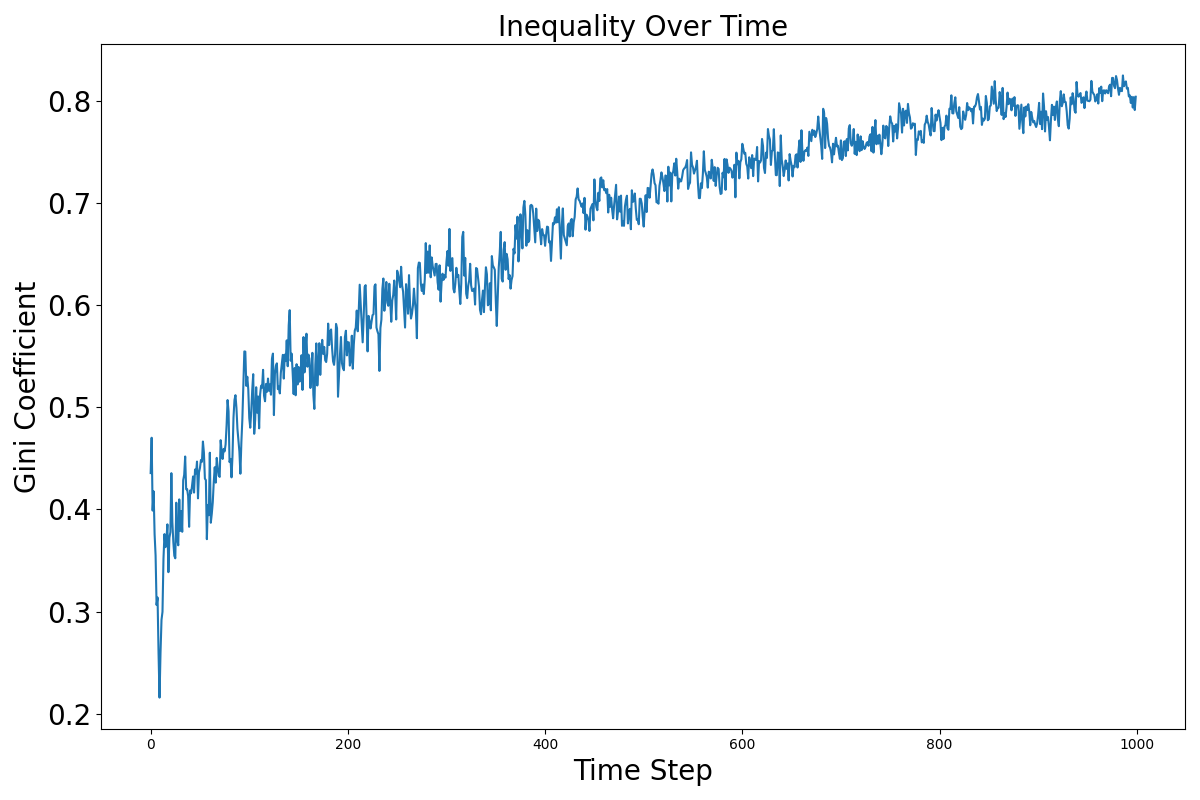
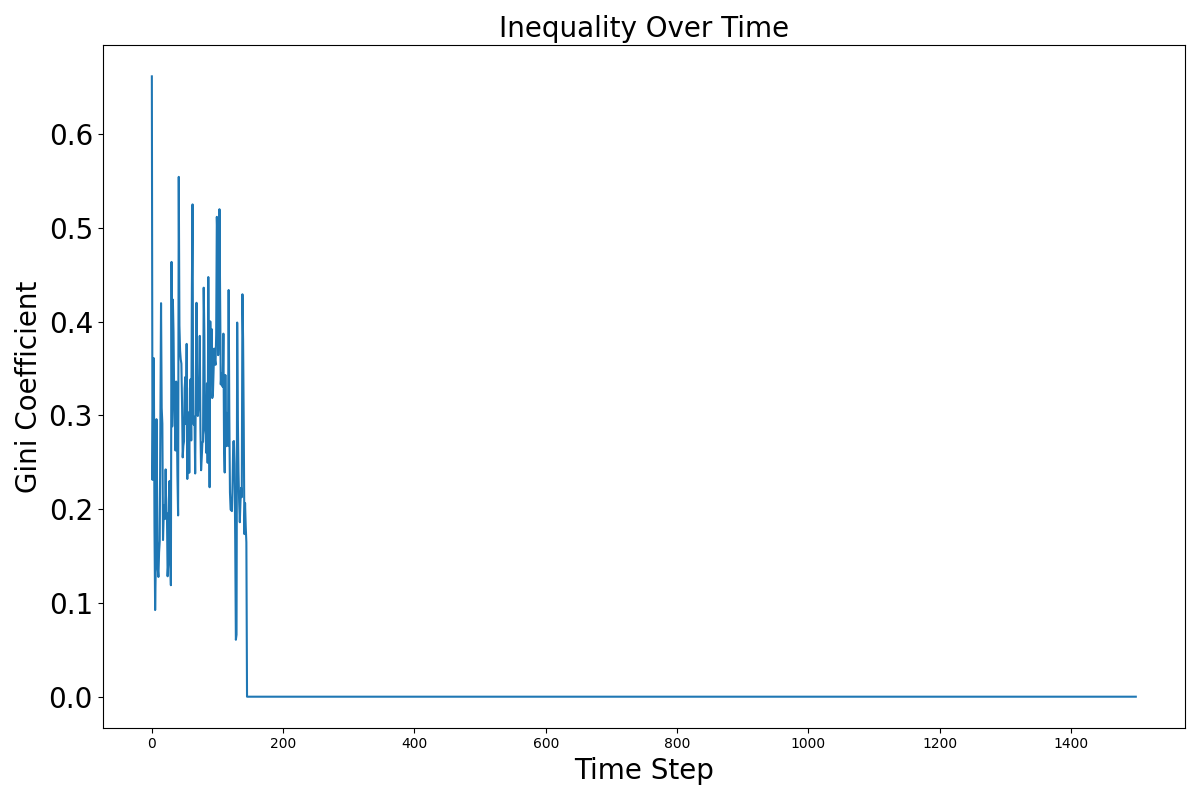
modified:   .DS_Store 	modified:   __pycache__/agent.cpython-312.pyc 	modified:   __pycache__/household.cpython-312.pyc 	modified:   __pycache__/main.cpython-312.pyc 	modified:   __pycache__/utils.cpython-312.pyc 	modified:   __pycache__/village.cpython-312.pyc 	modified:   agent.py 	modified:   hou

diff --git a/village.py b/village.py
@@ -163,12 +163,12 @@ class Village:
             
             if total_available_food > excess_food_ratio * food_needed and self.luxury_goods_in_village == 0: 
                 """ Too much food - Wants to trade for luxury goods"""
-                print(f"Qualify to get more luxury {household.id}")
+                # print(f"Qualify to get more luxury {household.id}")
                 food_for_luxury.append(household)
             if total_available_food < 50 * food_needed and household.luxury_good_storage > 0:
                 """ Not enough food - Wants to trade for food """
                 luxury_for_food.append(household)
-                print(f"Qualify to get more food {household.id}")
+                # print(f"Qualify to get more food {household.id}")
             # elif total_available_food < 1.5 * food_needed and household.luxury_good_storage == 0:
             #     charity.append(household)
             # this has been moved to run_simulation_step func
@@ -217,8 +217,8 @@ class Village:
             self.network_relation[food_household.id]['connectivity'][luxury_household.id] += 1
             self.network_relation[luxury_household.id]['connectivity'][food_household.id] += 1
 
-            print(f"Household {food_household.id} traded {food_to_trade} units of food "
-                  f"for {luxury_goods_to_trade} luxury goods with Household {luxury_household.id}.")
+            # print(f"Household {food_household.id} traded {food_to_trade} units of food "
+            #       f"for {luxury_goods_to_trade} luxury goods with Household {luxury_household.id}.")
 
     def get_household_by_id(self, household_id):
         """Retrieve a household by its ID."""
@@ -268,7 +268,7 @@ class Village:
         return abs(x1 - x2) + abs(y1 - y2)
 
     def is_land_available(self):
-        return any(not data['occupied'] for data in self.land_types.values())
+        return any(not data['occupied'] and not data['fallow'] for data in self.land_types.values())
 
     def reproduce_agent(self, household, parent_agent): # try not import
         """Create a new agent as the child of an existing agent."""
@@ -406,7 +406,7 @@ class Village:
             total_food += amount_get
             print(f"Household {household.id} gets {amount_get} from the Village.")
 
-    def run_simulation_step(self, vec1, prod_multiplier, fishing_discount, fallow_ratio, fallow_period, food_expiration_steps, marriage_from, marriage_to, bride_price_ratio, exchange_rate, storage_ratio_low, storage_ratio_high, land_capacity_low, max_member, excess_food_ratio, trade_back_start, lux_per_year, spare_food_enabled=False, fallow_farming = False):
+    def run_simulation_step(self, vec1, prod_multiplier, fishing_discount, fallow_ratio, fallow_period, food_expiration_steps, marriage_from, marriage_to, bride_price_ratio, exchange_rate, storage_ratio_low, storage_ratio_high, land_capacity_low, max_member, excess_food_ratio, trade_back_start, lux_per_year, land_depreciate_factor, fertility_scaler, spare_food_enabled=False, fallow_farming = False):
         
         """Run a single simulation step (year)."""
         
@@ -433,7 +433,7 @@ class Village:
                 # agent_food_needed= agent.vec1.rho[agent.get_age_group_index()]
                 agent_food_needed = agent.vec1.rho[agent.get_age_group_index()]
                 z = total_food * agent_food_needed / total_food_needed
-                agent.age_and_die(household, self, z)
+                agent.age_and_die(household, self, z, max_member, fertility_scaler)
                 
                 if not agent.is_alive:
                     dead_agents.append(agent)
@@ -459,7 +459,7 @@ class Village:
         if longevities:
             self.average_life_span.append(sum(longevities)/len(longevities))
         else:
-            print('average_life_span', self.average_life_span)
+            # print('average_life_span', self.average_life_span)
             self.average_life_span.append(self.average_life_span[-1])
 
         for household in self.households:
@@ -474,13 +474,17 @@ class Village:
             self.propose_marriage(household, marriage_from, marriage_to, bride_price_ratio) # if choose to comment out this line, please also comment out 
 
             if len(household.members) > max_member:
+                print('Too many ppl', len(household.members))
                 household.split_household(self, food_expiration_steps)
+                print('Splitted???', len(household.members))
+            else: 
+                print("household.members", len(household.members))
             self.remove_empty_household(household)
             household.advance_step()
             
         self.update_tracking_variables(exchange_rate)
         self.track_land_usage()
-        self.update_land_capacity()        
+        self.update_land_capacity(land_depreciate_factor)        
         self.manage_luxury_goods(exchange_rate, excess_food_ratio)
         self.trading(excess_food_ratio, trade_back_start)
         if fallow_farming:
@@ -490,7 +494,7 @@ class Village:
         self.luxury_goods_in_village += lux_per_year
         
     
-    def update_land_capacity(self):
+    def update_land_capacity(self, land_depreciate_factor):
         """Update the land quality for each land cell in the village."""
         for location, land in self.land_types.items():
             land_quality = land['quality']
@@ -517,7 +521,7 @@ class Village:
             new_quality = (
                         land_quality +
                         land_recovery_rate * (land_max_capacity - land_quality) 
-                        - farming_intensity * land_quality * 0.01 # this 0.01 is an important factor that influence everything, can be changed
+                        - farming_intensity ** 2 * land_quality * land_depreciate_factor # 0.01 # this 0.01 is an important factor that influence everything, can be changed
                     )
             land['quality'] = max(0, min(new_quality, land_max_capacity))
             # print(f"Land at {location} updated to quality {land['quality']:.2f}.")
@@ -536,6 +540,7 @@ class Village:
                 if household.location == loc:
                     land_snapshot[loc]['household_id'] = household.id
                     land_snapshot[loc]['num_members'] = len(household.members)
+                # print("len(household.members)", len(household.members))
         self.land_usage_over_time.append(land_snapshot)
         self.population.append(sum(len(household.members) for household in self.households))
         self.num_house.append(len(self.households))
@@ -672,7 +677,7 @@ class Village:
         plt.figure(figsize=(18, 12))
 
         # Plot 1: Population over time
-        plt.subplot(2, 3, 1)
+        plt.subplot(2, 4, 1)
         plt.plot(self.population_over_time, label='Population')
         plt.xlabel('Time Step', size = 20)
         plt.ylabel('Population', size = 20)
@@ -682,7 +687,7 @@ class Village:
         plt.title('Population Over Time',size = 20)
 
         # Plot 2: Land Capacity over time
-        plt.subplot(2, 3, 2)
+        plt.subplot(2, 4, 2)
         plt.plot(self.land_capacity_over_time, label='Occupied Land Capacity')
         plt.plot(self.land_capacity_over_time_all, label='All Land Capacity', linestyle='--')
         plt.xlabel('Time Step', size = 20)
@@ -693,7 +698,7 @@ class Village:
         plt.title('Land Capacity Over Time', size = 20)
 
         # Plot 3: Food Storage over time
-        plt.subplot(2, 3, 3)
+        plt.subplot(2, 4, 3)
         plt.plot(self.food_storage_over_time, label='Food Storage')
         plt.xlabel('Time Step', size = 20)
         plt.ylabel('Food Storage', size = 20)
@@ -703,7 +708,7 @@ class Village:
         plt.title('Food Storage Over Time', size = 20)
 
         # Plot 4: Average Fertility over time
-        plt.subplot(2, 3, 4)
+        plt.subplot(2, 4, 4)
         plt.plot(self.average_fertility_over_time, label='Avg. Fertility')
         plt.xlabel('Time Step', size = 20)
         plt.ylabel('Average Household Fertility', size = 20)
@@ -713,7 +718,7 @@ class Village:
         plt.title('Average Fertility Over Time', size = 20)
 
         # Plot 5: Average Age over time
-        plt.subplot(2, 3, 5)
+        plt.subplot(2, 4, 5)
         plt.plot(self.average_age, label='Avg. Age')
         plt.xlabel('Time Step',size = 20)
         plt.ylabel('Average Age', size = 20)
@@ -723,7 +728,7 @@ class Village:
         plt.title('Average Age Over Time', size = 20)
 
         # Plot 6: Average Life Span over time
-        plt.subplot(2, 3, 6)
+        plt.subplot(2, 4, 6)
         plt.plot(self.average_life_span, label='Avg. Life Span')
         plt.xlabel('Time Step', size = 20)
         plt.ylabel('Average Life Span', size = 20)
@@ -731,6 +736,15 @@ class Village:
         plt.yticks(size = 20)
         plt.legend(fontsize = 15)
         plt.title('Average Life Span Over Time', size = 20)
+
+        plt.subplot(2, 4, 7)
+        plt.plot(np.cumsum(self.population_over_time), label='Accumulated Population', color='orange')
+        plt.xlabel('Time Step', size=20)
+        plt.ylabel('Accumulated Population', size=20)
+        plt.yticks(size=20)
+        plt.legend()
+        plt.title('Accumulated Population', size=20)
+
 
         plt.tight_layout()
         plt.savefig(file_name)
@@ -760,7 +774,7 @@ class Village:
         # print('\nAgent network:')
         # print(agent_network)
         for agent in eligible_agents:
-            print('Eligible agent {}, household: ({}, {})'.format(agent.id, agent.household_id, household.id))
+            # print('Eligible agent {}, household: ({}, {})'.format(agent.id, agent.household_id, household.id))
 
             potential_spouses = self.find_potential_spouses(agent, marriage_from, marriage_to)
             

diff --git a/main.py b/main.py
@@ -12,10 +12,10 @@ random.seed(10)
 # if len(args) > 1:
 #     random.seed(int(args[1]))
 
-num_house = 56 # number of initial houses
+num_house = 5 # number of initial houses
 land_cells = 56 # initial amount of land cells
-year = 1000 # simulation years
-prod_multiplier = 1
+year = 1500 # simulation years
+prod_multiplier = 3
 fishing_discount = 1
 fallow_ratio = 50 # % of the total land
 fallow_period = 5 # years
@@ -23,7 +23,7 @@ food_expiration_steps = 2 # initial 3, by changing it from 3 to 2, everything ch
 marriage_from = 10
 marriage_to = 50
 bride_price_ratio=  0.5 # by changing it up, I haven't observed any changes yet
-land_ecovery_rate = 0.01 # initial 0.03
+land_ecovery_rate = 0.03 # initial 0.03
 land_max_capacity = 20 # initial 10
 initial_quality = 5 # initial 5
 fish_chance = 0.3 # initial 0.3
@@ -36,14 +36,16 @@ max_member = 5
 excess_food_ratio = 2 # initial 2
 trade_back_start = 50
 lux_per_year = 3 # initial 5 lowering it lower the gini coefficient
+land_depreciate_factor = 0.01 # very important, when it was 0.01, the population died after 1000 years
+fertility_scaler = 4 # very important, society cannot live up to 1000 yr if it is below 4 or 3. however, then the accumulative population is too much
 
 vec1_instance = Vec1()
 village = utils.generate_random_village(num_house, land_cells, vec1_instance, food_expiration_steps, land_ecovery_rate, land_max_capacity, initial_quality, fish_chance, fallow_period)
 village.initialize_network()
 village.initialize_network_relationship()
 for _ in range(year): 
-    village.run_simulation_step(vec1_instance, prod_multiplier = prod_multiplier, fishing_discount = fishing_discount, fallow_ratio = fallow_ratio, fallow_period = fallow_period, food_expiration_steps = food_expiration_steps, marriage_from = marriage_from, marriage_to = marriage_to, bride_price_ratio = bride_price_ratio, exchange_rate = exchange_rate, storage_ratio_low=storage_ratio_low, storage_ratio_high=storage_ratio_high, land_capacity_low = land_capacity_low, max_member=max_member, excess_food_ratio = excess_food_ratio, trade_back_start = trade_back_start, lux_per_year = lux_per_year, spare_food_enabled=False, fallow_farming = True)
-    utils.print_village_summary(village)
+    village.run_simulation_step(vec1_instance, prod_multiplier = prod_multiplier, fishing_discount = fishing_discount, fallow_ratio = fallow_ratio, fallow_period = fallow_period, food_expiration_steps = food_expiration_steps, marriage_from = marriage_from, marriage_to = marriage_to, bride_price_ratio = bride_price_ratio, exchange_rate = exchange_rate, storage_ratio_low=storage_ratio_low, storage_ratio_high=storage_ratio_high, land_capacity_low = land_capacity_low, max_member=max_member, excess_food_ratio = excess_food_ratio, trade_back_start = trade_back_start, lux_per_year = lux_per_year, land_depreciate_factor = land_depreciate_factor, fertility_scaler = fertility_scaler, spare_food_enabled=False, fallow_farming = True)
+    # utils.print_village_summary(village)
     
 village.plot_simulation_results(file_name = f"simulation_{year}")
-# village.generate_animation(grid_dim=math.ceil(math.sqrt(land_cells)))
+village.generate_animation(grid_dim=math.ceil(math.sqrt(land_cells)))

diff --git a/agent.py b/agent.py
@@ -82,7 +82,7 @@ class Agent:
             return work_output
         return work_output
     
-    def age_and_die(self, household, village, z):
+    def age_and_die(self, household, village, z, max_member, fertility_scaler):
 
         """Simulate aging, survival, and reproduction based on probabilities."""
         if not self.is_alive:
@@ -93,7 +93,7 @@ class Agent:
         age_index = self.get_age_group_index()
         
         survival_probability = self.vec1.pstar[age_index] * sp.gdtr(1.0 / self.vec1.mortscale, self.vec1.mortparms[age_index], z)
-        fertility_probability = self.vec1.mstar[age_index] * sp.gdtr(1.0 / self.vec1.fertscale, self.vec1.fertparm, z) * 5
+        fertility_probability = self.vec1.mstar[age_index] * sp.gdtr(1.0 / self.vec1.fertscale, self.vec1.fertparm, z) * fertility_scaler
         
         if random.random() > survival_probability:
             self.is_alive = False
@@ -103,9 +103,12 @@ class Agent:
             return
         
         self.fertility = fertility_probability
-        if random.random() < fertility_probability and self.gender == 'female' and self.marital_status == 'married':
-            if len(household.members) + len(self.newborn_agents) < 20: # or village.is_land_available():
+        # print(village.land_types.values())
+        if random.random() < fertility_probability and self.gender == 'female' and self.marital_status == 'married' and village.is_land_available() is True:
+            if len(household.members) + len(self.newborn_agents) < max_member: 
                 self.reproduce()
+                print('reproduced')
+                print('village.is_land_available()', village.is_land_available())
     
     def reproduce(self):
         """Simulate reproduction by adding new agents to the household."""

diff --git a/utils.py b/utils.py
@@ -6,6 +6,7 @@ from agent import Vec1
 import scipy.special as sp
 import math
 import uuid
+
 random.seed(10)
 def generate_random_agent(household_id, vec1):
 
@@ -48,7 +49,7 @@ def generate_random_village(num_households, num_land_cells, vec1, food_expiratio
             location = random.choice(list(land_types.keys()))
         land_types[location]['occupied'] = True
         household = generate_random_household(# next(Household._id_iter),
-            random.randint(5, 10), location, vec1, food_expiration_steps)
+            random.randint(0, 5), location, vec1, food_expiration_steps)
         households.append(household)
 
     return Village(households, land_types, food_expiration_steps, fallow_period)
@@ -64,13 +65,14 @@ def print_village_summary(village):
         food = sum(amount for amount, _ in household.food_storage)
         need = sum(member.vec1.rho[member.get_age_group_index()] for member in household.members)
         print(f"  Food Storage: {food}, Luxury Good Storage: {household.luxury_good_storage}, Needs: {need}")
-        # print(f"Household ID: {household.members}, Location: {household.location}, Land Quality: {household.land_quality}")
+        print(f"Household ID: {household.members}, Location: {household.location}, Land Quality: {household.land_quality}")
         
         if household.members:
             print(f"  Members:")
             for member in household.members:
 
                 print(f"    Agent - Age: {member.age}, Gender: {member.gender}, Alive: {member.is_alive}, Fertility Prob: {member.fertility}， Marital Status: {member.marital_status}")
+                pass
         else:
             print(f"  No members in this household.")
 

diff --git a/household.py b/household.py
@@ -130,7 +130,6 @@ class Household:
             random.shuffle(self.members)
 
             members_to_leave = len(self.members) // 2
-            mixed_members = []
 
             count = 0
             for agent in self.members:
@@ -152,8 +151,10 @@ class Household:
             for member in new_household_members:
                 if member in self.members:
                     self.remove_member(member)
+
                 new_household_members_ids.remove(member.id)
             
+                        
             if len(new_household_members_ids) > 0:
                 # print(new_household_members_ids)
                 raise BaseException('Agent to split not in household {}!'.format(self.id))
@@ -190,7 +191,8 @@ class Household:
             new_household.create_network_connectivity(village, village.network_relation, False,
                 lambda x, y: 0)
             # print(f'Household {self.id} splitted to {new_household.id}')
-
+        else:
+            print('ops, no empty land cells to split')
 
     def create_network_connectivity(self, village, network, include_luxury_goods, f):
         if self.id not in network:
